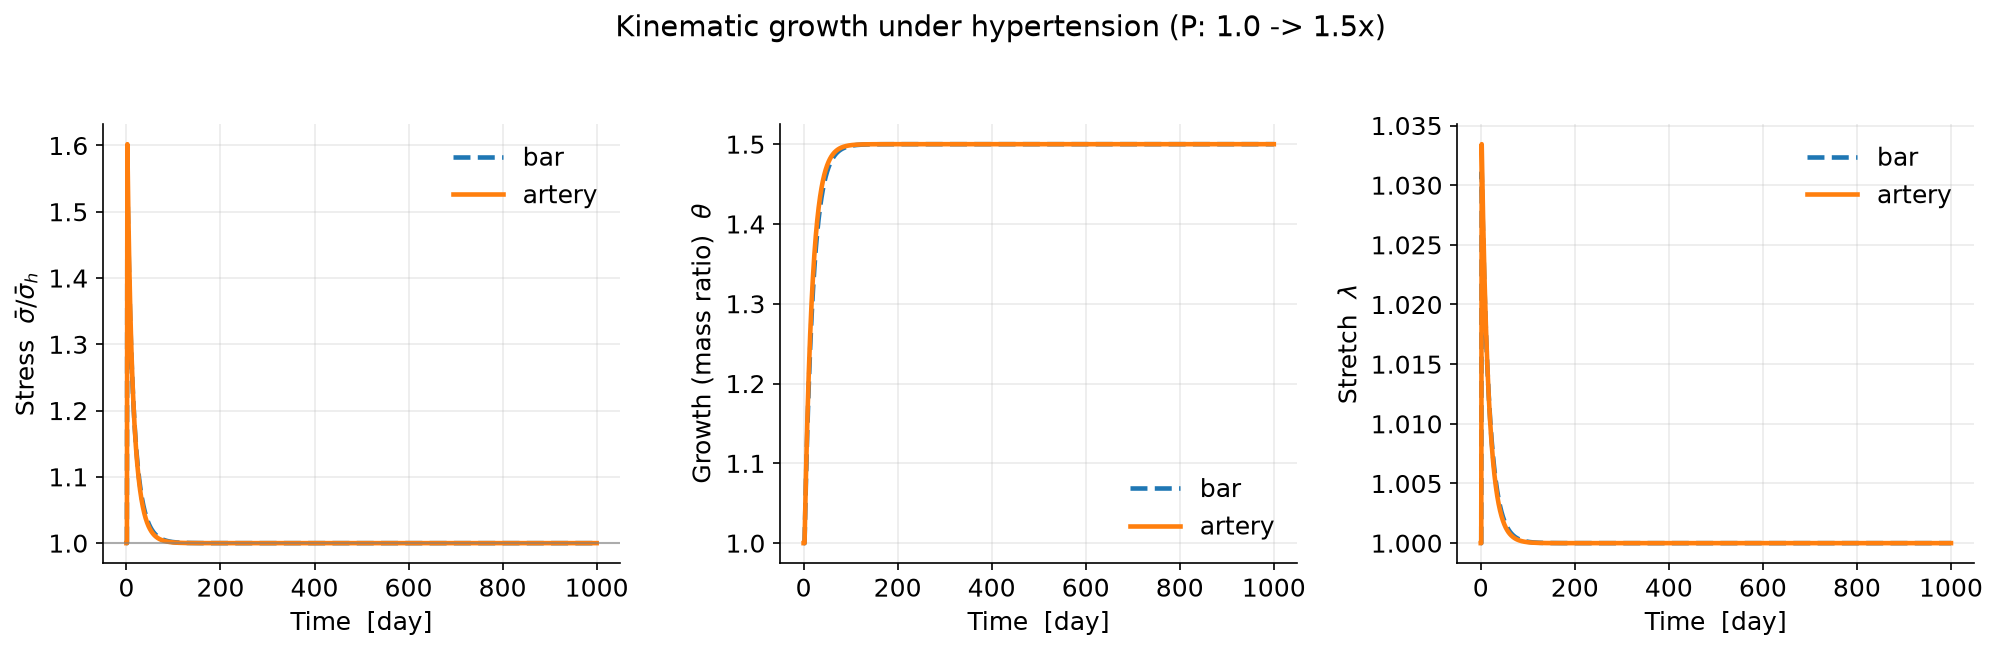
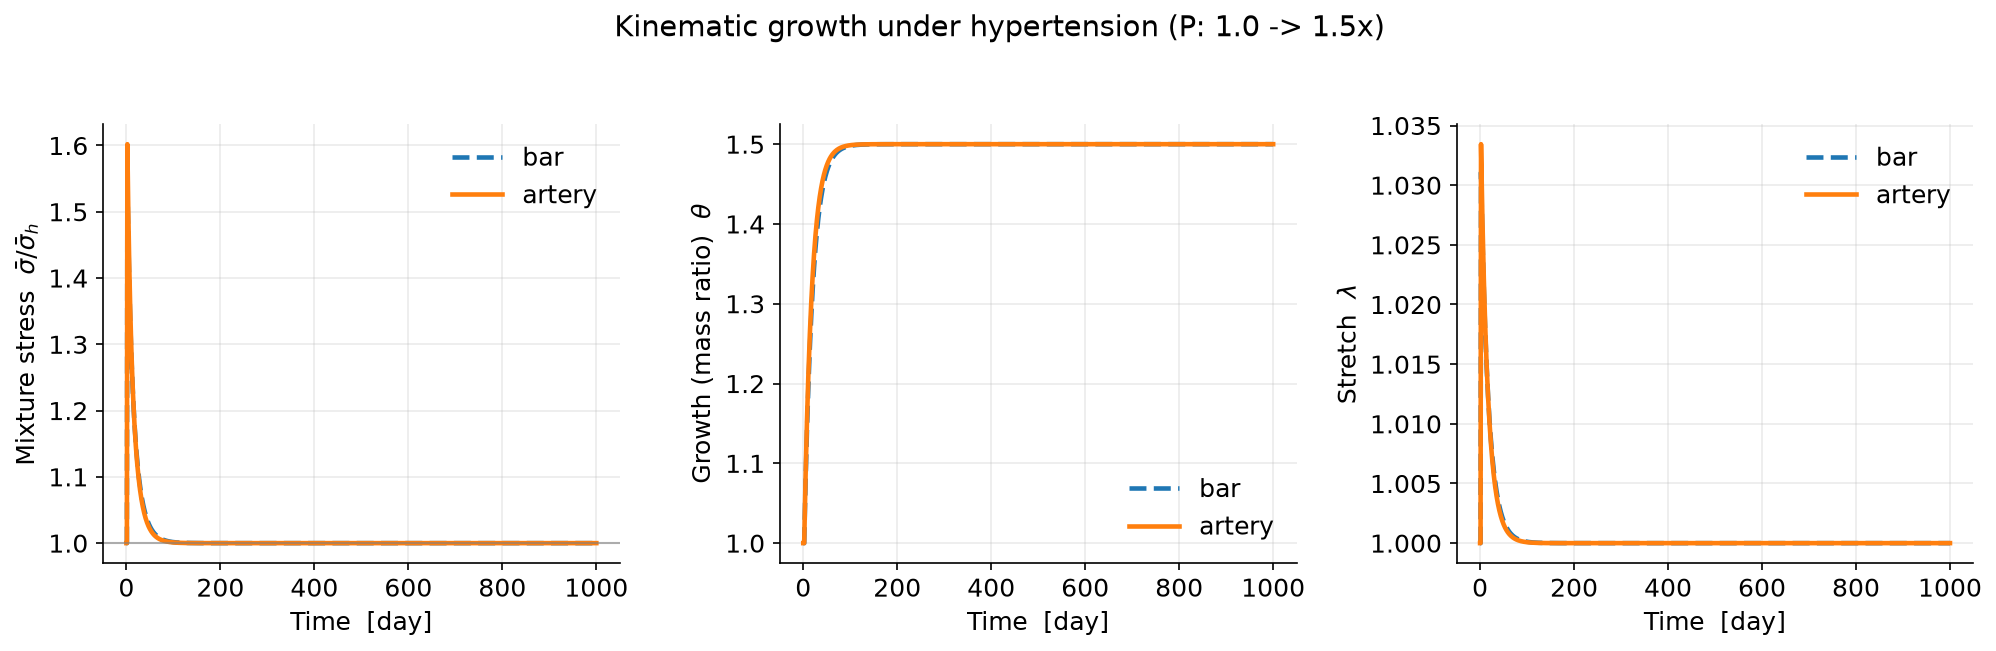
videos: white lumen / red wall, fixed shared legend, insult label, no pump
Address the second round of review feedback on the animations (gr.animation):

- Vessel: lumen now WHITE, wall RED (swapped); reference outline is dotted and
  kept in the background so the change from reference stays visible.
- Legends: a single shared legend for the response panels, placed OUTSIDE the
  axes so it never moves or overlaps the curves; per-constituent videos show the
  constituents, comparison videos the theories (+ equilibrated target). Removed
  per-panel legends.
- Insult panel: no legend — the ratio (P/P_h or elastin fraction) goes straight
  into the y-axis label.
- "Mixture stress" (in videos and figures) makes clear it is the mixture, not a
  single constituent.
- Fixed the "pump": the G&R curves now start from the elastic state (t0 = insult
  fully applied) instead of dipping back to the reference baseline just before
  G&R switches on.
- Reference configuration kept as a dotted baseline in each response panel.

diff --git a/src/gr/animation.py b/src/gr/animation.py
@@ -37,8 +37,9 @@ STANFORD_RED = "#8C1515"
 _WALL_EXAGG = 3.0          # wall drawn this much thicker than scale, so it's visible
 
 # Capitalised, descriptive y-axis labels (no plot titles — the label is enough).
+# "Mixture stress" makes clear it is the mixture (not a single constituent).
 QUANTITIES = {
-    "sigma_norm": (r"Tissue stress  $\bar\sigma/\bar\sigma_h$", lambda r: r.sigma_norm),
+    "sigma_norm": (r"Mixture stress  $\bar\sigma/\bar\sigma_h$", lambda r: r.sigma_norm),
     "mass": (r"Mass ratio  $M/M_0$", lambda r: r.mass),
     "lam": (r"Stretch  $\lambda$", lambda r: r.lam),
     "radius": ("Inner radius  [mm]", lambda r: r.radius),
@@ -109,7 +110,12 @@ def animate(
     model = geom.model
     R0, H0 = model.R, model.H
     t_end = max(float(r.t[np.isfinite(r.t)][-1]) for r in results)
-    t_vis = _settle_time(results, t_end)
+    # The G&R curves start at t0 (insult fully applied ~ the elastic instant), so
+    # they begin from the elastic state instead of dipping back to the reference
+    # baseline right before G&R switches on.
+    t0 = insult.t_on + max(insult.ramp, 0.0)
+    settle = _settle_time(results, t_end)
+    t_vis = max(settle - t0, 0.15 * settle, 30.0)      # G&R window shown (days since insult)
     W = 0.20 * t_vis                                   # width of the reference+elastic setup
 
     if vessel_from is None:
@@ -132,7 +138,7 @@ def animate(
 
     def build(result, getter, key):
         t, y = _finite(result.t, getter(result))
-        gr = np.interp(gr_all, t, y, left=y[0], right=y[-1])
+        gr = np.interp(gr_all + t0, t, y, left=y[0], right=y[-1])
         return np.concatenate([np.full(n_ref, REF[key]), np.full(n_el, ELA[key]), gr])
 
     series = {q: [build(r, QUANTITIES[q][1], q) for r in results] for q in quantities}
@@ -166,28 +172,35 @@ def animate(
         max_out = np.nanmax(r_v / R0 + _WALL_EXAGG * h_v / R0)
         lim = 1.18 * max_out
         ax_v.set_xlim(-lim, lim); ax_v.set_ylim(-lim, lim)
-        _disc(out_ref, facecolor="none", edgecolor="gray", ls=(0, (4, 3)), lw=1.3, zorder=1)
-        _disc(1.0, facecolor="none", edgecolor="gray", ls=(0, (4, 3)), lw=1.3, zorder=1)
-        wall = _disc(out_ref, facecolor="white", edgecolor="#111", lw=3.0, zorder=2)
-        lumen = _disc(1.0, facecolor=STANFORD_RED, edgecolor="#111", lw=3.0, zorder=3)
+        # dotted reference outline in the background; wall RED, lumen WHITE
+        _disc(out_ref, facecolor="none", edgecolor="gray", ls=":", lw=1.4, zorder=1)
+        _disc(1.0, facecolor="none", edgecolor="gray", ls=":", lw=1.4, zorder=1)
+        wall = _disc(out_ref, facecolor=STANFORD_RED, edgecolor="#111", lw=3.0, zorder=2)
+        lumen = _disc(1.0, facecolor="white", edgecolor="#111", lw=3.0, zorder=3)
     else:
         ax_v.set_xlim(-0.15, 2.8); ax_v.set_ylim(-1.2, 1.2)
         h_ref = 0.5
         ax_v.add_patch(Rectangle((0, -h_ref / 2), 1.8, h_ref, facecolor="none",
-                                 edgecolor="gray", ls=(0, (4, 3)), lw=1.3))
+                                 edgecolor="gray", ls=":", lw=1.4))
         wall = Rectangle((0, -h_ref / 2), 1.8, h_ref, facecolor=STANFORD_RED,
                          edgecolor="#111", lw=3.0)
         ax_v.add_patch(wall); lumen = None
     phase_txt = ax_v.text(0.5, -0.04, "", transform=ax_v.transAxes, ha="center",
                           va="top", fontsize=12, color="#222", weight="bold")
 
-    # insult panel (y-label only, no title)
-    if has_p:
-        ax_ins.plot(frame_t, gamma, color="#2a6fb0", lw=2, label=r"Pressure $P/P_h$")
-    if has_e:
-        ax_ins.plot(frame_t, ela_frac, color=STANFORD_RED, lw=2, label="Elastin fraction")
-    ax_ins.set_ylabel("Insult")
-    ax_ins.legend(fontsize=8, loc="center right")
+    # insult panel: no legend — the ratio goes straight into the y-label
+    if has_p and not has_e:
+        ax_ins.plot(frame_t, gamma, color="#2a6fb0", lw=2)
+        ax_ins.set_ylabel(r"Pressure  $P/P_h$")
+    elif has_e and not has_p:
+        ax_ins.plot(frame_t, ela_frac, color=STANFORD_RED, lw=2)
+        ax_ins.set_ylabel("Elastin fraction")
+    else:
+        if has_p:
+            ax_ins.plot(frame_t, gamma, color="#2a6fb0", lw=2)
+        if has_e:
+            ax_ins.plot(frame_t, ela_frac, color=STANFORD_RED, lw=2)
+        ax_ins.set_ylabel(r"Insult ($P/P_h$, elastin)")
 
     # region shading (two-tone: reference vs elastic) + G&R-on divider
     for ax in time_axes:
@@ -197,13 +210,12 @@ def animate(
         ax.axvline(0.0, color="gray", lw=1.2, ls="--")         # G&R switched on
         ax.set_xlabel("Time  [day]")
     # region labels: "reference"/"elastic" set vertically inside their (narrow)
-    # bands so they never collide; "G&R" horizontal above the wide main region
+    # bands so they never collide (the G&R region is marked by the t=0 divider and
+    # the bold phase caption under the vessel)
     ax_q[0].annotate("reference", (-0.75 * W, 0.5), xycoords=("data", "axes fraction"),
                      ha="center", va="center", rotation=90, fontsize=8, color="#666")
     ax_q[0].annotate("elastic", (-0.25 * W, 0.5), xycoords=("data", "axes fraction"),
                      ha="center", va="center", rotation=90, fontsize=8, color="#666")
-    ax_q[0].annotate("G&R", (0.5 * t_vis, 1.015), xycoords=("data", "axes fraction"),
-                     ha="center", fontsize=8.5, color="#555")
 
     # response panels
     lines, cursors = {}, []
@@ -216,36 +228,48 @@ def animate(
                 # constituent curve: reference & elastic = phi0, then G&R = mass history
                 phi0 = model.by_name(name).phi0
                 t, yy = _finite(r0.t, m)
-                grc = np.interp(gr_all, t, yy, left=yy[0], right=yy[-1])
+                grc = np.interp(gr_all + t0, t, yy, left=yy[0], right=yy[-1])
                 y = np.concatenate([np.full(n_ref, phi0), np.full(n_el, phi0), grc])
                 ax.plot(frame_t, y, color="gray", lw=0.8, alpha=0.2)
                 ln, = ax.plot([], [], lw=2.4, label=name)
                 lines[q].append((ln, y))
-            ax.legend(fontsize=8, loc="best")
         else:
             for r, ys in zip(results, series[q]):
                 ax.plot(frame_t, ys, color="gray", lw=0.8, alpha=0.16)
                 ln, = ax.plot([], [], label=r.theory, **STYLE.get(r.theory, {}))
                 lines[q].append((ln, ys))
-            if q == "sigma_norm":
-                ax.axhline(1.0, color="gray", lw=1, alpha=0.5)
-            if len(results) > 1:
-                ax.legend(fontsize=8, loc="best")
+        # reference configuration, kept dotted in the background
+        ax.axhline(REF[q], color="gray", lw=1, ls=":", alpha=0.7, zorder=0)
         if equilibrium is not None and getattr(equilibrium, "exists", False):
             val = {"sigma_norm": equilibrium.sigma_norm, "mass": equilibrium.mass,
                    "lam": equilibrium.lam, "radius": equilibrium.radius,
                    "thickness": equilibrium.thickness}.get(q)
             if val is not None and np.isfinite(val):
-                ax.axhline(val, **STYLE["equilibrated CMM"], alpha=0.9)
+                ax.axhline(val, **STYLE["equilibrated CMM"], alpha=0.9, label="equilibrated CMM")
         ax.set_ylabel(ylabel)
         cursors.append(ax.axvline(frame_t[0], color="k", lw=1, alpha=0.6))
 
+    # one shared legend for the response panels, placed OUTSIDE the axes so it is
+    # fixed (never moves or overlaps the growing curves)
+    if per_constituent:
+        handles = [ln for ln, _ in lines.get("mass", [])]
+        labels = [h.get_label() for h in handles]
+    else:
+        handles, labels = [], []
+        for ax in ax_q:
+            for h, lb in zip(*ax.get_legend_handles_labels()):
+                if lb and not lb.startswith("_") and lb not in labels:
+                    handles.append(h); labels.append(lb)
+
     if title:
-        fig.suptitle(title, fontsize=14, y=1.0)
+        fig.suptitle(title, fontsize=14, y=0.985)
     import warnings
     with warnings.catch_warnings():
         warnings.simplefilter("ignore")
-        fig.tight_layout()
+        fig.tight_layout(rect=(0, 0, 1, 0.86))
+    if len(labels) >= 2:
+        fig.legend(handles, labels, loc="upper center", bbox_to_anchor=(0.5, 0.93),
+                   ncol=min(len(labels), 4), fontsize=9, frameon=False)
 
     # ---------------------------------------------------------------- frames
     def phase_label(k):

diff --git a/solutions/fig02_kinematic_growth.py b/solutions/fig02_kinematic_growth.py
@@ -29,7 +29,7 @@ def main() -> None:
         axes[2].plot(r.t, r.lam, ls, label=geom.name)
 
     axes[0].axhline(1.0, color="gray", lw=1, alpha=0.6)
-    axes[0].set_ylabel(r"Stress  $\bar\sigma/\bar\sigma_h$")
+    axes[0].set_ylabel(r"Mixture stress  $\bar\sigma/\bar\sigma_h$")
     axes[1].set_ylabel(r"Growth (mass ratio)  $\theta$")
     axes[2].set_ylabel(r"Stretch  $\lambda$")
     for ax in axes:

diff --git a/solutions/fig03_constrained_mixture.py b/solutions/fig03_constrained_mixture.py
@@ -34,7 +34,7 @@ def main() -> None:
     # (b) tissue stress back to homeostatic
     axes[1].plot(r.t, r.sigma_norm, color="black")
     axes[1].axhline(1.0, color="gray", lw=1, alpha=0.6)
-    axes[1].set_ylabel(r"Tissue stress  $\bar\sigma/\bar\sigma_h$")
+    axes[1].set_ylabel(r"Mixture stress  $\bar\sigma/\bar\sigma_h$")
 
     # (c) geometry
     axes[2].plot(r.t, r.radius, label="Inner radius $r$")

diff --git a/solutions/fig04_compare_all.py b/solutions/fig04_compare_all.py
@@ -45,7 +45,7 @@ def main() -> None:
     for row, (title, insult, t_end, cmm_dt) in enumerate(scenarios):
         results, eq = run_all(art, insult, t_end=t_end, cmm_dt=cmm_dt)
         _panel(axes[row][0], results, eq, lambda r: r.sigma_norm,
-               r"Tissue stress  $\bar\sigma/\bar\sigma_h$", eq_val=eq.sigma_norm if eq.exists else None)
+               r"Mixture stress  $\bar\sigma/\bar\sigma_h$", eq_val=eq.sigma_norm if eq.exists else None)
         axes[row][0].axhline(1.0, color="gray", lw=1, alpha=0.5)
         _panel(axes[row][1], results, eq, lambda r: r.mass,
                r"Mass ratio  $M/M_0$", eq_val=eq.mass if eq.exists else None)

diff --git a/src/gr/plotting.py b/src/gr/plotting.py
@@ -77,7 +77,7 @@ def save_pdf(fig, path: str | Path) -> Path:
 
 # Which Result field to plot, and how to label the y-axis.
 _QUANTITIES = {
-    "sigma_norm": (r"Tissue stress  $\bar\sigma/\bar\sigma_h$", lambda r: r.sigma_norm),
+    "sigma_norm": (r"Mixture stress  $\bar\sigma/\bar\sigma_h$", lambda r: r.sigma_norm),
     "mass": (r"Mass ratio  $M/M_0$", lambda r: r.mass),
     "lam": (r"Stretch  $\lambda$", lambda r: r.lam),
     "radius": ("Inner radius / length  [mm]", lambda r: r.radius),

diff --git a/docs/videos/README.md b/docs/videos/README.md
@@ -13,9 +13,11 @@ timeline is split into three clearly labelled phases so you can tell apart what 
    adapts. Frames are dense early and the time axis is cropped to the active
    window, so the video does not sit on a flat tail.
 
-Each frame shows a **deforming vessel** (Stanford-red lumen, thick inner/outer
-walls) with a dashed **reference** outline so the change from reference is always
-visible, the **insult** drawn over time, and the **response** curves revealed live.
+Each frame shows a **deforming vessel** (white lumen, Stanford-red wall, thick
+inner/outer lines) with a **dotted reference outline** so the change from the
+reference configuration is always visible, the **insult** drawn over time (its
+ratio in the y-axis label), and the **response** curves revealed live under one
+shared legend placed outside the panels.
 
 | video | twin of | what it shows |
 |---|---|---|